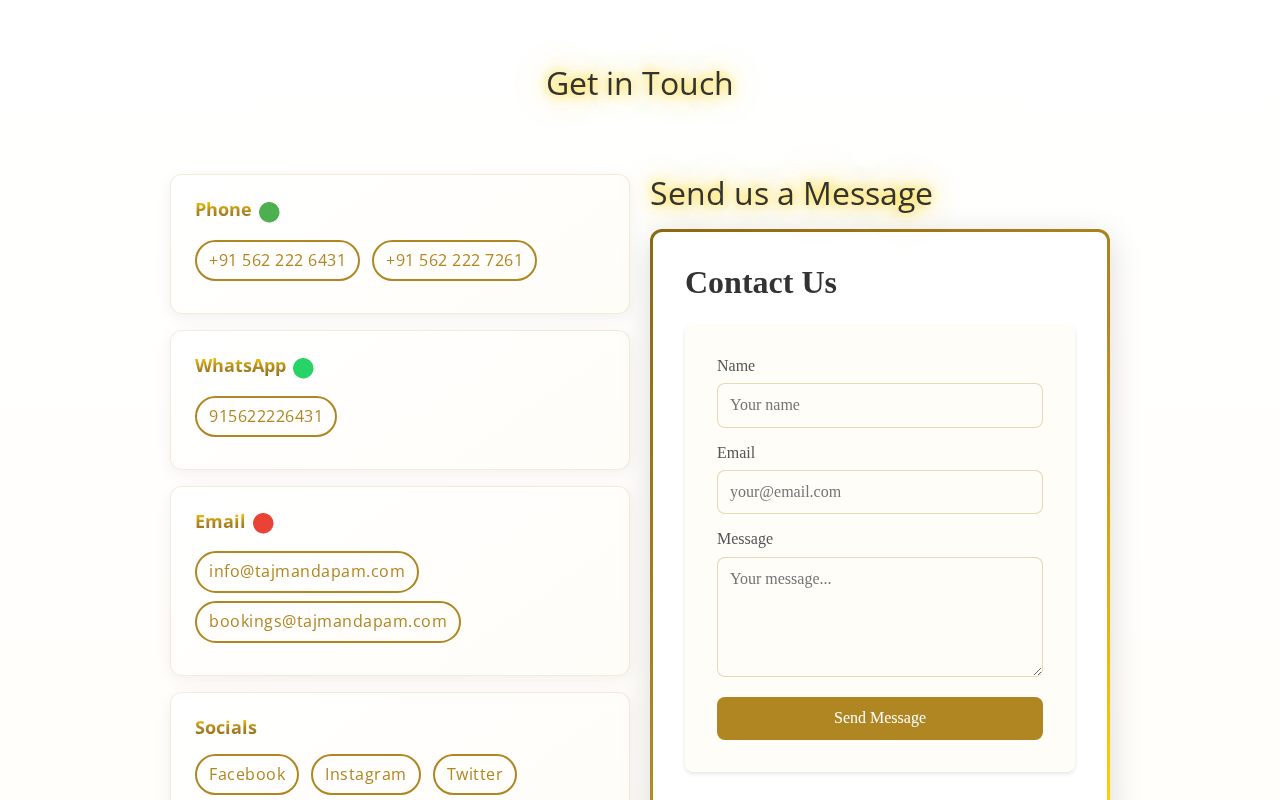
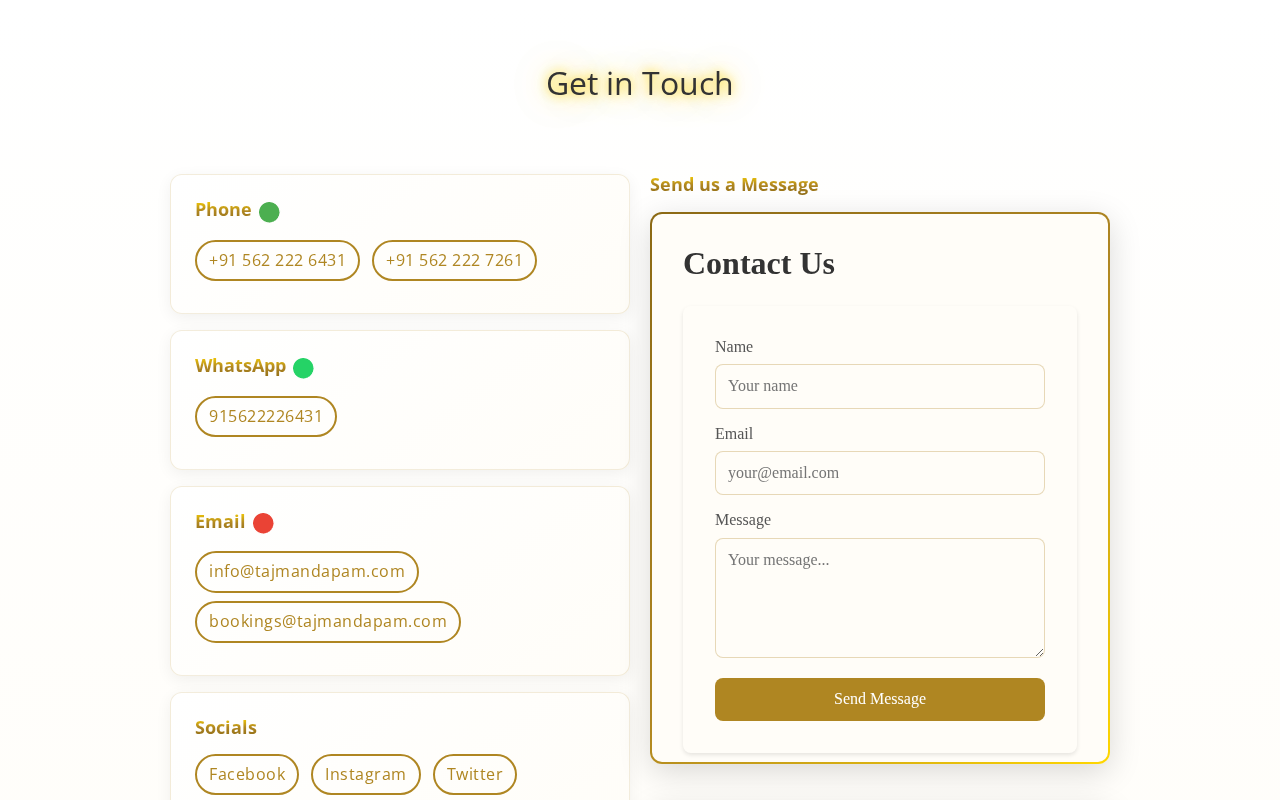
Fix contact section styling
- Revert "Send us a Message" to h3
- Make contact form iframe fill border tighter
- Fix hero down arrow to scroll to #contact

Changed region(s): [[0.5, 0.8438, 0.875, 0.9688], [0.5, 0.2188, 0.875, 0.375], [0.5625, 0.4062, 0.6562, 0.75]]

diff --git a/assets/scss/pages/contact/_contact.scss b/assets/scss/pages/contact/_contact.scss
@@ -116,31 +116,32 @@
 .contact-form-container {
   margin-bottom: 2rem;
 
-  h2 {
-    color: #333333;
-    text-shadow: 0 0 10px rgba(255, 215, 0, 0.8),
-                 0 0 20px rgba(255, 215, 0, 0.6),
-                 0 0 40px rgba(255, 215, 0, 0.4),
-                 0 0 60px rgba(175, 134, 34, 0.3);
+  h3 {
+    background: linear-gradient(180deg, #FFD700 0%, $primary 50%, #8B6914 100%);
+    -webkit-background-clip: text;
+    -webkit-text-fill-color: transparent;
+    background-clip: text;
     margin-bottom: 1rem;
+    font-size: 1.1rem;
   }
 }
 
 .contact-form-iframe {
   border-radius: 12px;
   box-shadow: 0 8px 32px rgba(0, 0, 0, 0.15);
-  border: 3px solid transparent;
-  background: linear-gradient(#fff, #fff) padding-box,
+  border: 2px solid transparent;
+  background: linear-gradient(#fffdf8, #fffdf8) padding-box,
               linear-gradient(135deg, #8B6914, $primary, #FFD700) border-box;
   overflow: hidden;
 
   iframe {
     width: 100%;
-    min-height: 600px;
+    min-height: 550px;
     border: none;
     display: block;
-    border-radius: 9px;
-    overflow: hidden;
+    border-radius: 10px;
+    margin: -1px;
+    width: calc(100% + 2px);
   }
 }
 

diff --git a/layouts/partials/contact-section.html b/layouts/partials/contact-section.html
@@ -69,7 +69,7 @@
             <div class="col-md-6">
                 {{ with $contact.form }}
                 <div class="contact-form-container mb-4">
-                    <h2>Send us a Message</h2>
+                    <h3><strong>Send us a Message</strong></h3>
                     <div class="contact-form-iframe">
                         {{- $formCSS := ":root{--cf-primary-color:#AF8622;--cf-primary-hover:#D4A84B;--cf-border-color:rgba(175,134,34,0.3);--cf-border-radius:8px;--cf-form-bg:#fffdf8;}" -}}
                         {{- $separator := cond (strings.Contains . "?") "&" "?" -}}

diff --git a/layouts/partials/hero-image-split-fullscreen.html b/layouts/partials/hero-image-split-fullscreen.html
@@ -17,7 +17,7 @@
     </div>
   </div>
   <div class="hero-down">
-    <a aria-label="Scroll past main banner image" href="#home">
+    <a aria-label="Scroll to contact section" href="#contact">
       <svg xmlns="http://www.w3.org/2000/svg" width="60" height="60" viewBox="0 0 898.75 533.751"
       transform="matrix(.69 0 0 .69 15.5 15.5)"
       fill="#fff">
